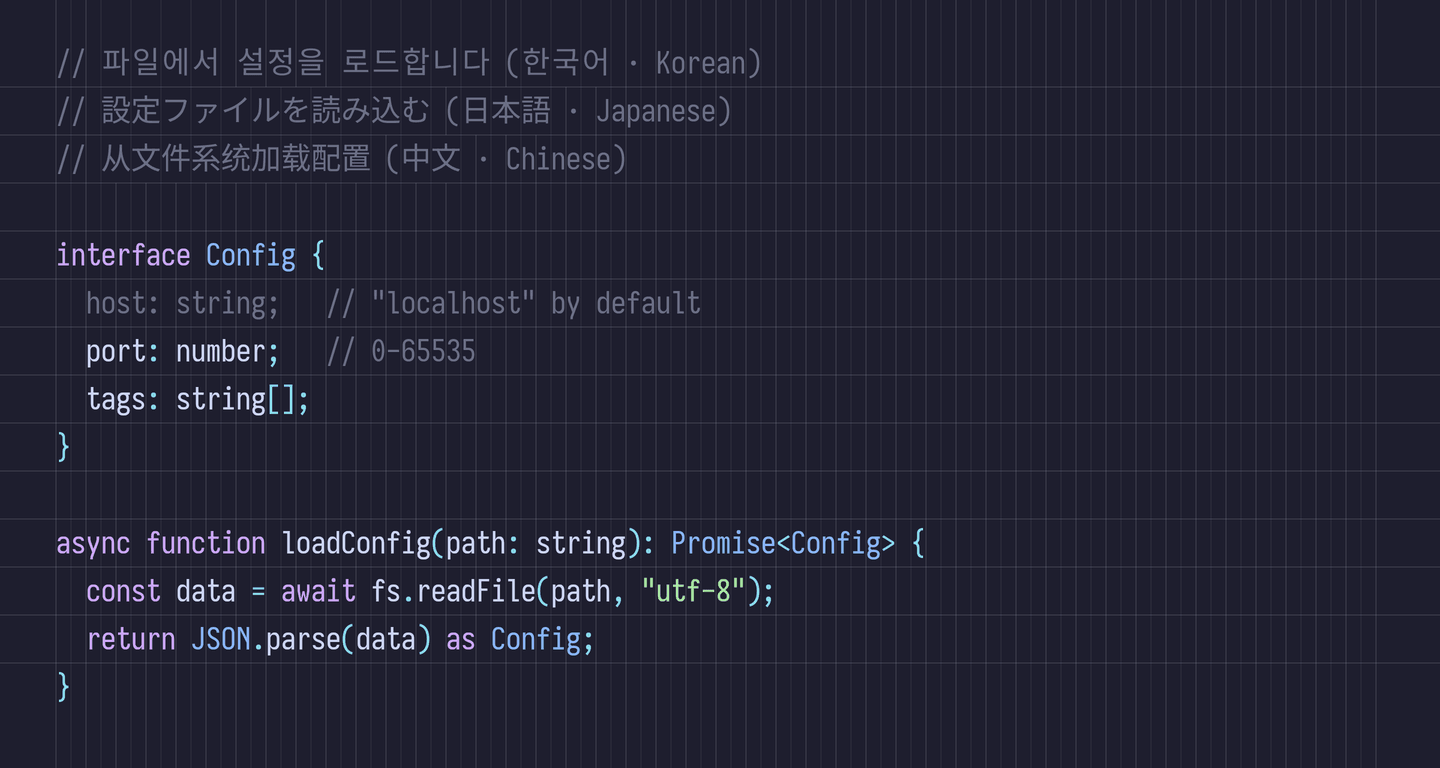
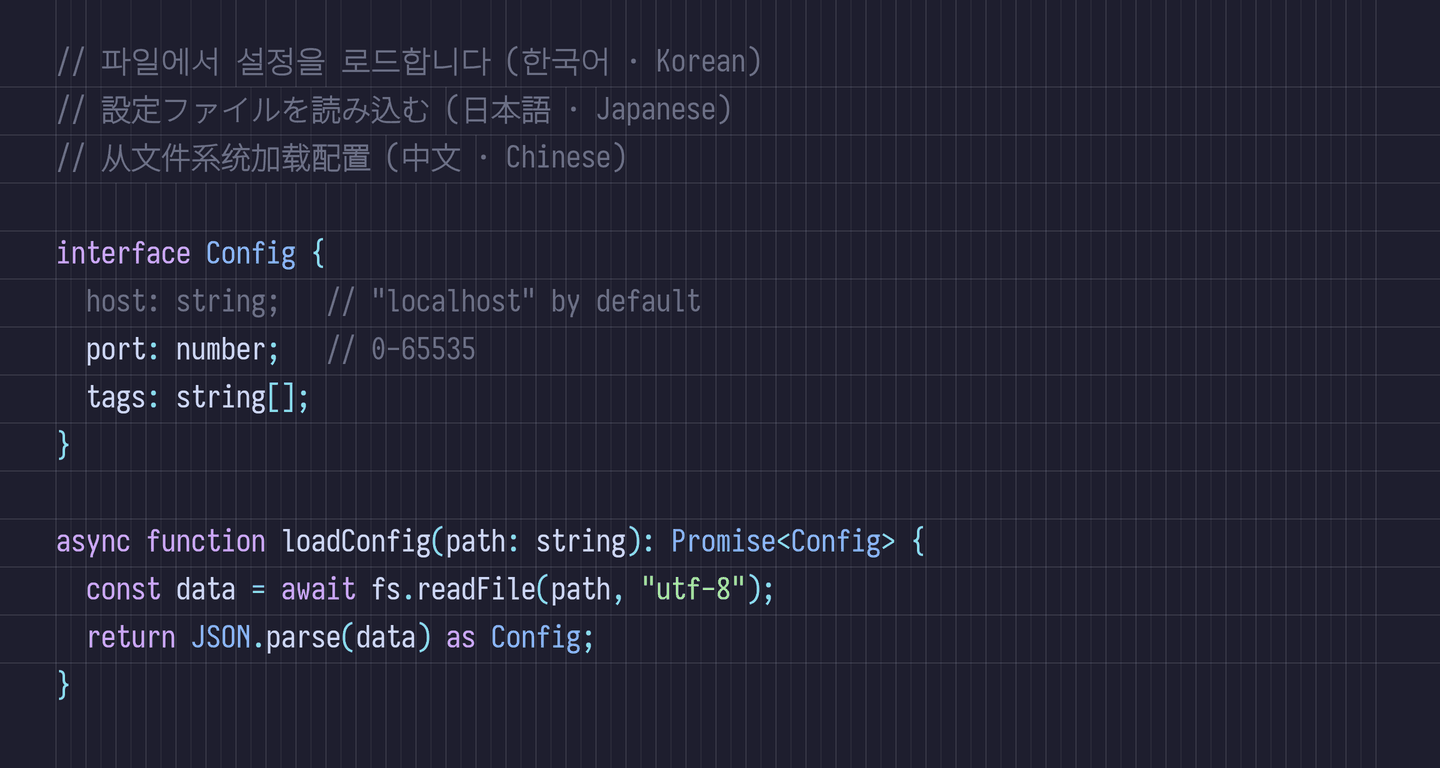
fix(showcase): use Source Han Mono CJK fallback

diff --git a/src/features/showcase/cjk-grid.ts b/src/features/showcase/cjk-grid.ts
@@ -29,19 +29,23 @@ export async function renderCjkGrid(opts: CjkGridOpts = {}): Promise<string> {
 
   await setupFonts(fontDir);
 
-  const GROUPS: { label: string; chars: string; expectedCells: number }[] = [
+  const GROUPS: {
+    label: string;
+    chars: string;
+    expectedCells: number;
+  }[] = [
     {
       label: "Latin (Pravka, 0.5em)",
       chars: "ABCDabcd0123!@#$",
       expectedCells: 1,
     },
     {
-      label: "Hiragana (CJK JP, 1em)",
+      label: "Hiragana (Source Han Mono, 1em)",
       chars: "あいうえおかきくけこ",
       expectedCells: 2,
     },
     {
-      label: "Katakana (CJK JP, 1em)",
+      label: "Katakana (Source Han Mono, 1em)",
       chars: "アイウエオカキクケコ",
       expectedCells: 2,
     },
@@ -56,7 +60,7 @@ export async function renderCjkGrid(opts: CjkGridOpts = {}): Promise<string> {
       expectedCells: 2,
     },
     {
-      label: "Korean Hangul (920u font, EAW→2 cells ✓)",
+      label: "Korean Hangul (Source Han Mono, 1em)",
       chars: "가나다라마바사아자차",
       expectedCells: 2,
     },
@@ -91,7 +95,9 @@ export async function renderCjkGrid(opts: CjkGridOpts = {}): Promise<string> {
     ctx.stroke();
   }
 
-  const FONT_MIXED = `${SIZE}px 'Pravka', 'Noto Sans Mono CJK JP'`;
+  const FONT_MIXED = `${SIZE}px 'Pravka', 'Source Han Mono'`;
+  const FONT_CJK = `600 ${SIZE}px 'Source Han Mono'`;
+  const LANG_CJK = "ko";
   const FONT_LABEL = "10px monospace";
   const TOL = 0.02;
 
@@ -105,15 +111,15 @@ export async function renderCjkGrid(opts: CjkGridOpts = {}): Promise<string> {
     ctx.fillText(g.label, PAD, rowY + 10);
 
     ctx.font = FONT_MIXED;
-    const halfEmWidth = ctx.measureText("A").width;
     let x = PAD;
     let allOk = true;
     for (const ch of [...g.chars].slice(0, MAX_CHARS)) {
       const cp = ch.codePointAt(0) ?? 0;
-      const eawCell = isEastAsianWide(cp)
-        ? halfEmWidth * 2
-        : ctx.measureText(ch).width;
-      const ok = Math.abs(eawCell - expectedW) / expectedW <= TOL;
+      const useCjkFont = isEastAsianWide(cp);
+      ctx.font = useCjkFont ? FONT_CJK : FONT_MIXED;
+      ctx.lang = useCjkFont ? LANG_CJK : "inherit";
+      const rawFontW = ctx.measureText(ch).width;
+      const ok = Math.abs(rawFontW - expectedW) / expectedW <= TOL;
       if (!ok) allOk = false;
 
       ctx.fillStyle = ok ? "rgba(60,180,80,0.1)" : "rgba(220,60,60,0.18)";
@@ -123,23 +129,25 @@ export async function renderCjkGrid(opts: CjkGridOpts = {}): Promise<string> {
       ctx.lineWidth = 1;
       ctx.strokeRect(x + 0.5, rowY + LABEL_H + 0.5, expectedW - 1, SIZE + 1);
 
-      const rawFontW = ctx.measureText(ch).width;
-      if (isEastAsianWide(cp) && Math.abs(rawFontW - eawCell) > 0.5) {
+      if (isEastAsianWide(cp) && Math.abs(rawFontW - expectedW) > 0.5) {
         ctx.fillStyle = "rgba(255,180,40,0.5)";
         ctx.fillRect(x, rowY + LABEL_H + SIZE + 2, rawFontW, 2);
       }
 
-      const offset = isEastAsianWide(cp) ? (eawCell - rawFontW) / 2 : 0;
       ctx.fillStyle = ok ? "#cdd6f4" : "#ffaaaa";
-      ctx.fillText(ch, x + offset, baseline);
+      ctx.font = useCjkFont ? FONT_CJK : FONT_MIXED;
+      ctx.lang = useCjkFont ? LANG_CJK : "inherit";
+      ctx.fillText(ch, x, baseline);
 
       x += expectedW;
     }
 
-    const sampleEaw = isEastAsianWide(g.chars.codePointAt(0) ?? 0)
-      ? halfEmWidth * 2
-      : ctx.measureText(g.chars[0] ?? "A").width;
-    const ratio = sampleEaw / HALF;
+    const sample = g.chars[0] ?? "A";
+    const sampleCp = sample.codePointAt(0) ?? 0;
+    const sampleUsesCjkFont = isEastAsianWide(sampleCp);
+    ctx.font = sampleUsesCjkFont ? FONT_CJK : FONT_MIXED;
+    ctx.lang = sampleUsesCjkFont ? LANG_CJK : "inherit";
+    const ratio = ctx.measureText(sample).width / HALF;
     const badge = allOk
       ? `✓ ${ratio.toFixed(3)}× (EAW)`
       : `✗ ${ratio.toFixed(3)}× (want ${g.expectedCells}.000×)`;

diff --git a/src/features/showcase/canvas-text.ts b/src/features/showcase/canvas-text.ts
@@ -12,11 +12,14 @@ import { VISUAL_PNG } from "@/shared/util/image.ts";
 export interface CanvasLine {
   tokens: Token[];
   fontSpec?: string;
+  cjkLang?: string;
   advance?: number;
 }
 
 export interface CanvasRenderOpts {
   defaultFont: string;
+  cjkFont?: string;
+  cjkLang?: string;
   bg: string;
   width: number;
   paddingX: number;
@@ -51,7 +54,7 @@ export async function setupFonts(fontDir: string): Promise<void> {
   for (const f of readdirSync(fontDir)) {
     if (f.endsWith(".ttf")) GlobalFonts.registerFromPath(join(fontDir, f));
   }
-  // CJK fallback: explicit override, else the cached Noto download (skipped if offline).
+  // CJK fallback: explicit override, else the cached Source Han Mono download (skipped if offline).
   const cjk =
     process.env.PRAVKA_CJK_FONT ?? (await ensureCjkFont().catch(() => null));
   if (cjk && existsSync(cjk)) GlobalFonts.registerFromPath(cjk);
@@ -245,30 +248,19 @@ export async function renderCanvasLines(
     const ascent = Math.max(latinAscent, cjkAscent);
     baselineY += ascent;
 
-    // halfEmWidth = advance of one Latin character (Pravka = 0.5em).
-    // East Asian Wide chars get exactly 2× this, mirroring terminal EAW allocation.
-    const halfEmWidth = ctx.measureText("A").width;
-
     let x = opts.paddingX;
     for (const token of line.tokens) {
       if (!token.text) continue;
       ctx.font = fontSpec;
       ctx.fillStyle = token.color;
-
-      // Iterate code-point by code-point to apply EAW cell allocation.
+      const cjkLang = line.cjkLang ?? opts.cjkLang;
       for (const char of token.text) {
         const cp = char.codePointAt(0) ?? 0;
-        if (isEastAsianWide(cp)) {
-          // 2-column cell: center the glyph (advance may be < 2× for 920u fonts).
-          const cellWidth = halfEmWidth * 2;
-          const glyphWidth = ctx.measureText(char).width;
-          const offset = (cellWidth - glyphWidth) / 2;
-          ctx.fillText(char, x + offset, baselineY);
-          x += cellWidth;
-        } else {
-          ctx.fillText(char, x, baselineY);
-          x += ctx.measureText(char).width;
-        }
+        const useCjkFont = opts.cjkFont && isEastAsianWide(cp);
+        ctx.font = useCjkFont ? opts.cjkFont! : fontSpec;
+        ctx.lang = useCjkFont ? (cjkLang ?? "inherit") : "inherit";
+        ctx.fillText(char, x, baselineY);
+        x += ctx.measureText(char).width;
       }
     }
 

diff --git a/src/shared/source.ts b/src/shared/source.ts
@@ -1,6 +1,5 @@
 import { existsSync, mkdirSync, statSync, writeFileSync } from "node:fs";
 import { basename, dirname, join } from "node:path";
-
 import { FSD_DIR, VENDOR_DIR } from "@/shared/paths.ts";
 
 export interface Source {
@@ -40,18 +39,21 @@ export async function downloadTo(
   return path;
 }
 
-// Noto Sans Mono CJK (Variable OTC) is the CJK fallback for specimen rendering; pinned to a release
-// tag for reproducibility and cached under vendor/ (gitignored).
-const NOTO_CJK_TAG = "Sans2.004";
-const NOTO_CJK_URL = `https://raw.githubusercontent.com/notofonts/noto-cjk/${NOTO_CJK_TAG}/Sans/Variable/OTC/NotoSansMonoCJK-VF.otf.ttc`;
+// Source Han Mono is the CJK fallback for specimen rendering; pinned to the same release rev used
+// by nixpkgs (`source-han-mono` 1.002) and cached under vendor/ (gitignored).
+const SOURCE_HAN_MONO_VERSION = "1.002";
+const SOURCE_HAN_MONO_URL = `https://github.com/adobe-fonts/source-han-mono/releases/download/${SOURCE_HAN_MONO_VERSION}/SourceHanMono.ttc`;
+const SOURCE_HAN_MONO_TTC = join(
+  VENDOR_DIR,
+  `source-han-mono-${SOURCE_HAN_MONO_VERSION}`,
+  "SourceHanMono.ttc",
+);
 
-/** Download + cache the Noto Sans Mono CJK fallback font; returns its local path. */
-export function ensureCjkFont(opts: { force?: boolean } = {}): Promise<string> {
-  return downloadTo(
-    NOTO_CJK_URL,
-    join(VENDOR_DIR, "noto-cjk", "NotoSansMonoCJK-VF.otf.ttc"),
-    opts,
-  );
+/** Download + cache the Source Han Mono CJK fallback font; returns its local path. */
+export async function ensureCjkFont(
+  opts: { force?: boolean } = {},
+): Promise<string> {
+  return downloadTo(SOURCE_HAN_MONO_URL, SOURCE_HAN_MONO_TTC, opts);
 }
 
 /** Ensure a registered source image is cached locally; returns its path. */

diff --git a/src/features/showcase/render.ts b/src/features/showcase/render.ts
@@ -28,8 +28,12 @@ function fontSpec(
   style: string,
   hasCjk: boolean,
 ): string {
-  const cjk = hasCjk ? ", 'Noto Sans Mono CJK JP'" : "";
+  const cjk = hasCjk ? ", 'Source Han Mono'" : "";
   return `${style === "italic" ? "italic " : ""}${weight} ${fontSize}px 'Pravka'${cjk}`;
+}
+
+function cjkFontSpec(fontSize: number): string {
+  return `600 ${fontSize}px 'Source Han Mono'`;
 }
 
 function baseOpts(
@@ -45,6 +49,8 @@ function baseOpts(
 ): CanvasRenderOpts {
   return {
     defaultFont: fontSpec(spec.fontSize, 400, "normal", hasCjk),
+    cjkFont: hasCjk ? cjkFontSpec(spec.fontSize) : undefined,
+    cjkLang: hasCjk ? "ko" : undefined,
     bg: theme.bg,
     width: spec.width,
     paddingX: spec.paddingX,

diff --git a/src/features/showcase/specimens.ts b/src/features/showcase/specimens.ts
@@ -111,8 +111,7 @@ const CJK: CodeSpecimen = {
   kind: "code",
   id: "cjk",
   title: "CJK Integration: Korean · Japanese · Chinese",
-  // Wide (EAW) chars take 2 cells; Korean Hangul (Noto CJK 920u) is centered in that slot, as
-  // terminals do. No separate KR font required.
+  // Wide (EAW) chars take 2 cells; Source Han Mono glyphs are 1em, matching that slot.
   width: 720,
   paddingX: 28,
   paddingY: 24,

diff --git a/CONTRIBUTING.md b/CONTRIBUTING.md
@@ -58,7 +58,7 @@ These flags recur across commands with consistent meaning:
 | `vendor/iosevka-<ver>` | Iosevka source checkout used to compile the font |
 | `vendor/nerd-fonts` | Cached Nerd Fonts `FontPatcher` |
 | `vendor/fsd` | fsd.it PragmataPro reference images |
-| `vendor/noto-cjk` | Noto CJK fonts for CJK comparison |
+| `vendor/source-han-mono-<version>` | Source Han Mono font for CJK comparison |
 
 ## Building the font
 

diff --git a/README.md b/README.md
@@ -101,7 +101,7 @@ bun src/cli.ts showcase specimen      # writes docs/assets/showcase/*.png
 bun src/cli.ts compare docs           # writes docs/assets/compare/**/{pragmatapro,pravka,diff}.png
 ```
 
-CJK text (Korean, Japanese, Chinese) is rendered via [Noto Sans Mono CJK](https://github.com/notofonts/noto-cjk) as a fallback alongside Pravka. The font (Variable OTC, pinned to tag `Sans2.004`) is downloaded and cached automatically under `vendor/noto-cjk/`; set `PRAVKA_CJK_FONT` to use a local file instead.
+CJK text (Korean, Japanese, Chinese) is rendered via [Source Han Mono](https://github.com/adobe-fonts/source-han-mono) as a fallback alongside Pravka. The font is pinned to release `1.002`, downloaded automatically, and cached under `vendor/source-han-mono-1.002/`; CJK glyphs are drawn with canvas language `ko` and a heavier font weight to match the Korean Source Han Mono regional forms used with Kiro while keeping their 1em advance. Set `PRAVKA_CJK_FONT` to use a local file instead.
 
 ## License
 